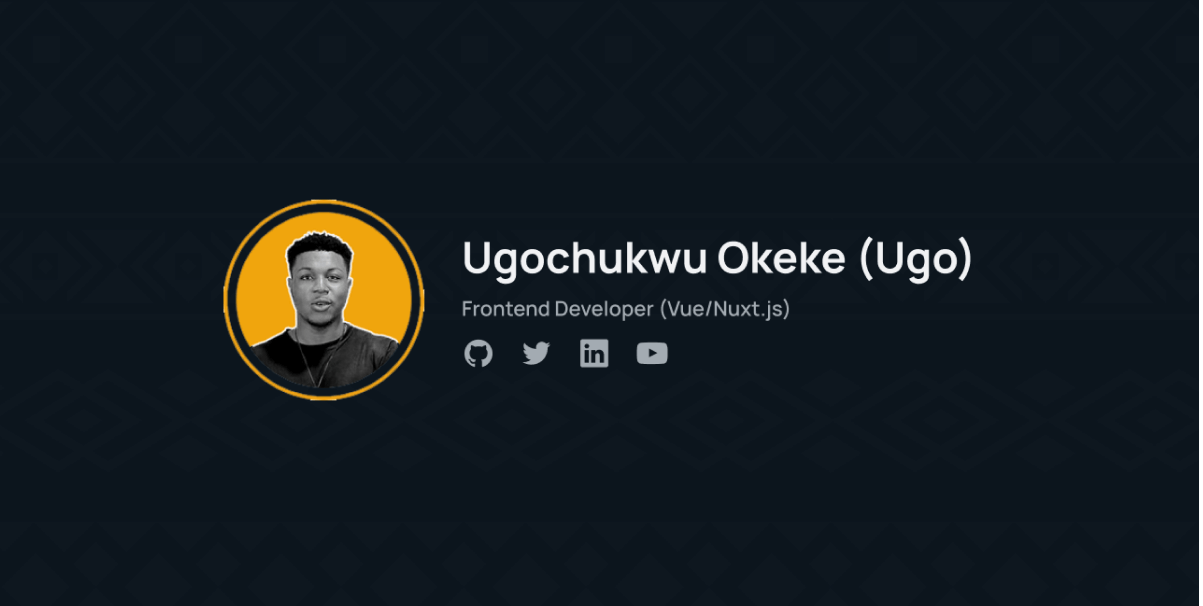
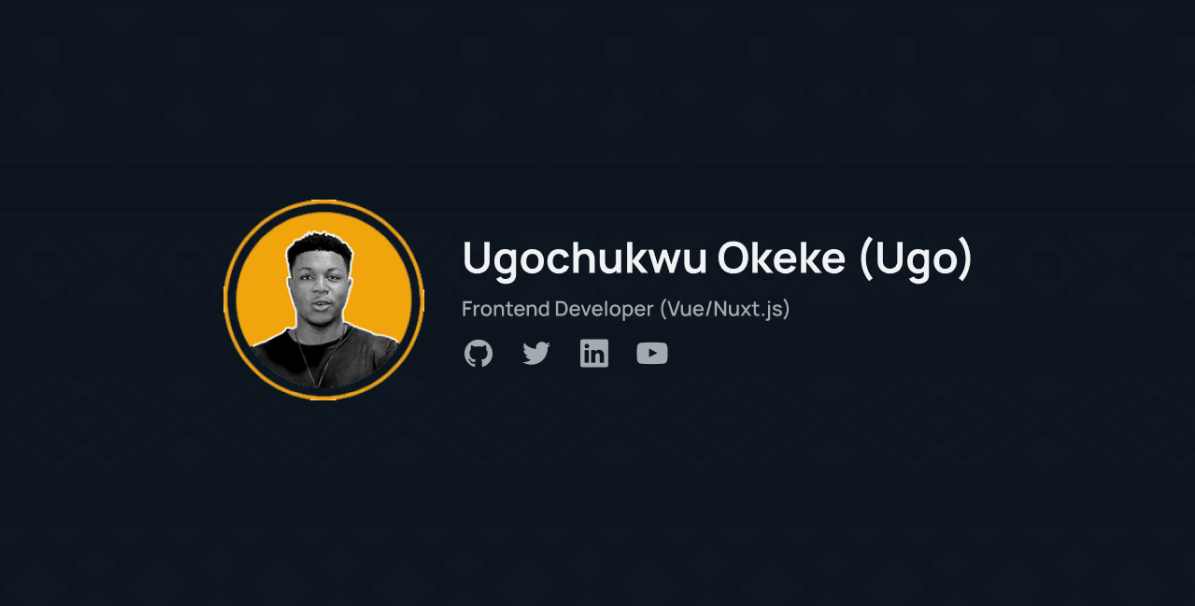
Feat: Add og-image

Changed region(s): [[0.1858, 0.3267, 0.836, 0.6535], [0.9908, 0.0, 1.0, 1.0]]

diff --git a/index.html b/index.html
@@ -21,8 +21,6 @@
       <meta name="theme-color" content="">
       <meta name="viewport" content="width=device-width, initial-scale=1.0">
 
-      <!-- Animations -->
-      <link rel="stylesheet" href="https://unpkg.com/aos@next/dist/aos.css" />
 
       <!--Open Graph data-->
       <meta property="og:locale" content="en_US" />
@@ -31,7 +29,7 @@
       <meta property="og:description" content="Passionate Frontend Developer (Vue/Nuxt.js) from Nigeria" />
       <meta property="og:url" content="https://thecavydev.vercel.app" />
       <meta property="og:site_name" content="Ugochukwu Okeke (Ugo)">
-      <meta property="og:image" content="" />
+      <meta property="og:image" content="https://raw.githubusercontent.com/okeke-ugochukwu/okeke-ugochukwu.github.io/patch/img/og-image.png" />
       <meta property="og:image:width" content="1200" />
       <meta property="og:image:height" content="600" />
       <meta property="og:image:alt" content="Website Image Snippet" />
@@ -43,7 +41,7 @@
       <meta name="twitter:title" content="Ugochukwu Okeke (Ugo)">
       <meta name="twitter:description" content="Passionate Frontend Developer (Vue/Nuxt.js) from NIgeria">
       <meta name="twitter:url" content="https://thecavydev.vercel.app">
-      <meta name="twitter:image" content="">
+      <meta name="twitter:image" content="https://raw.githubusercontent.com/okeke-ugochukwu/okeke-ugochukwu.github.io/patch/img/og-image.png">
       <meta name="twitter:site" content="@thecavydev">
       <meta name="twitter:creator" content="@thecavydev">
 
@@ -385,7 +383,6 @@
 
       <script src="js/script.js"></script>
       <script src="https://unpkg.com/aos@next/dist/aos.js"></script>
-      <script> AOS.init() </script>
    </body>
 
 </html>
